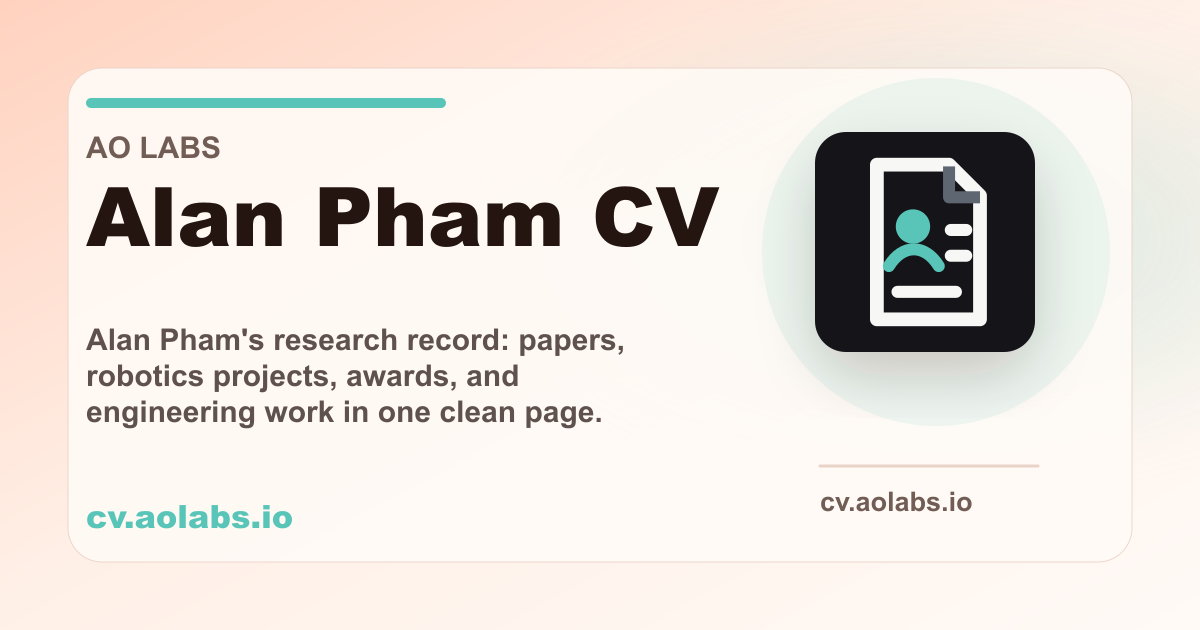
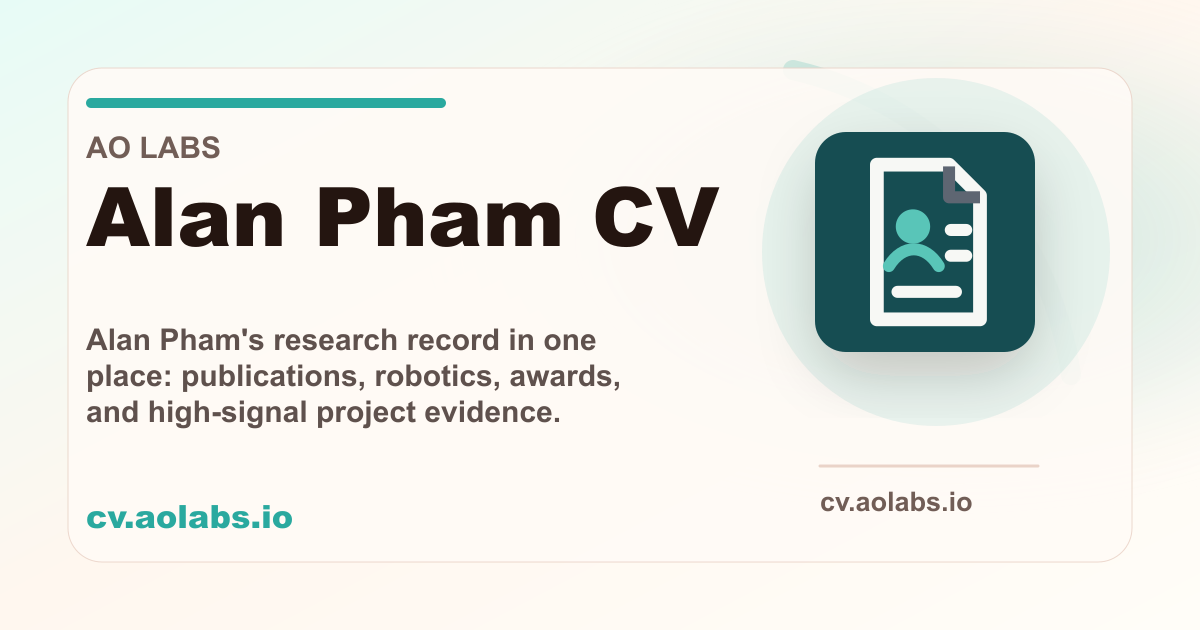
Refine social preview themes

diff --git a/index.html b/index.html
@@ -4,7 +4,7 @@
   <meta charset="utf-8" />
   <meta name="viewport" content="width=device-width, initial-scale=1" />
   <title>Alan Pham CV</title>
-  <meta name="description" content="Alan Pham's research record: papers, robotics projects, awards, and engineering work in one clean page.">
+  <meta name="description" content="Alan Pham's research record in one place: publications, robotics, awards, and high-signal project evidence.">
   <link rel="canonical" href="https://cv.aolabs.io/" />
   <meta name="twitter:image:alt" content="Alan Pham CV preview card.">
   <meta name="twitter:image" content="https://cv.aolabs.io/og-image-20260506.png">
@@ -17,11 +17,11 @@
   <meta property="og:type" content="website">
   <meta property="og:site_name" content="AO Labs">
   <meta property="og:title" content="Alan Pham CV">
-  <meta property="og:description" content="Alan Pham's research record: papers, robotics projects, awards, and engineering work in one clean page.">
+  <meta property="og:description" content="Alan Pham's research record in one place: publications, robotics, awards, and high-signal project evidence.">
   <meta property="og:url" content="https://cv.aolabs.io/">
   <meta name="twitter:card" content="summary_large_image">
   <meta name="twitter:title" content="Alan Pham CV">
-  <meta name="twitter:description" content="Alan Pham's research record: papers, robotics projects, awards, and engineering work in one clean page.">
+  <meta name="twitter:description" content="Alan Pham's research record in one place: publications, robotics, awards, and high-signal project evidence.">
   <link rel="icon" href="/favicon.svg?v=20260506-icons" type="image/svg+xml">
   <link rel="stylesheet" href="/styles.css">
 </head>
